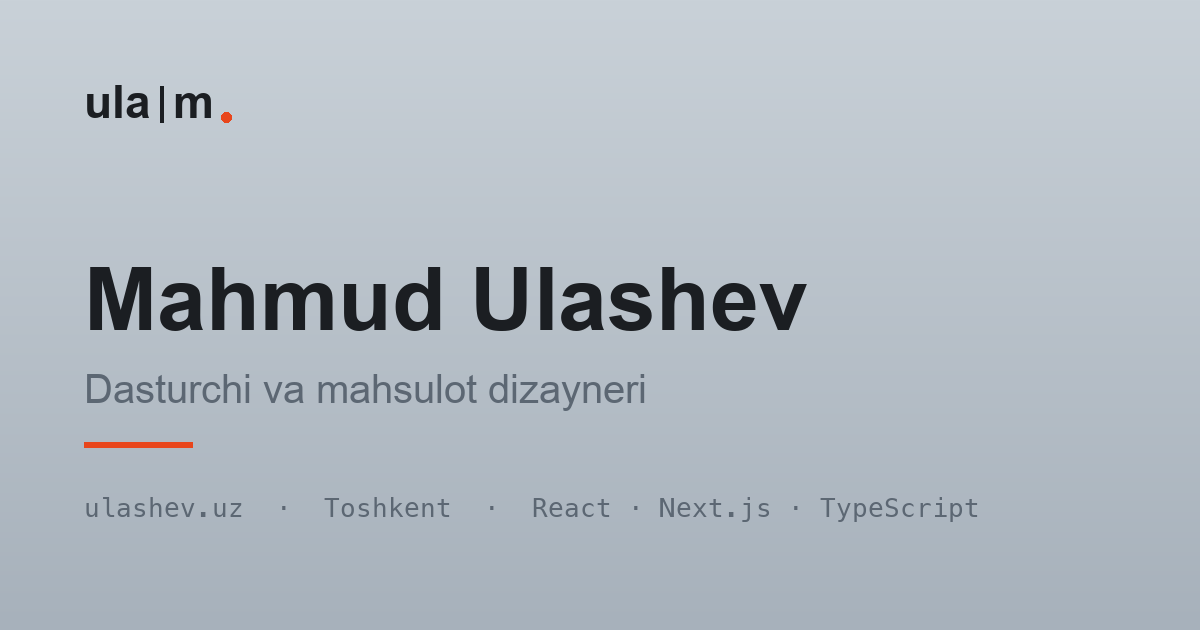
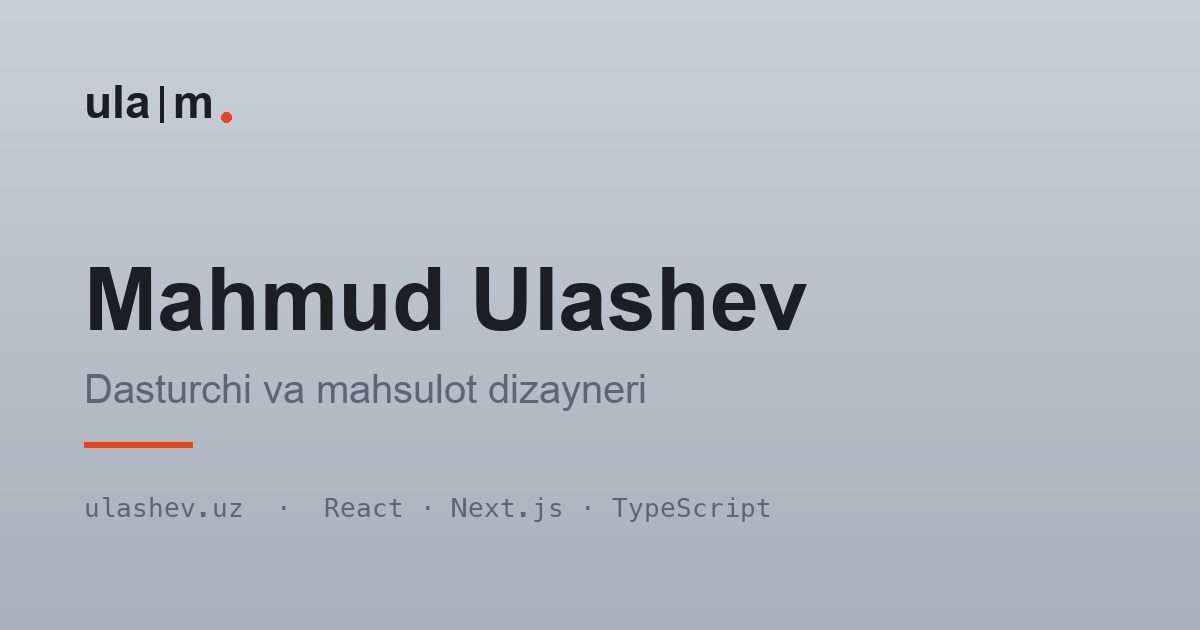
refactor: refine portfolio content, metadata, and instructional UI labels for better clarity

Changed region(s): [[0.2467, 0.7841, 0.6475, 0.8444], [0.6783, 0.7841, 0.8017, 0.8444]]

diff --git a/index.html b/index.html
@@ -3,12 +3,12 @@
 <head>
 <meta charset="utf-8" />
 <meta name="viewport" content="width=device-width, initial-scale=1, maximum-scale=1, viewport-fit=cover" />
-<title>Mahmud Ulashev — Dasturchi va mahsulot dizayneri | Toshkent</title>
-<meta name="description" content="Mahmud Ulashev — Toshkentdagi dasturchi. Dizayn, frontend, backend va serverni birlashtirib ishlaydigan saytlar va ilovalar yarataman." />
+<title>Mahmud Ulashev — Dasturchi va mahsulot dizayneri</title>
+<meta name="description" content="Mahmud Ulashev dizayn, kod va serverni birlashtirib ishlaydigan raqamli mahsulotlar yaratadi. 4 yil tajriba." />
 <link rel="canonical" href="https://ulashev.uz/" />
 <meta name="robots" content="index, follow, max-image-preview:large, max-snippet:-1" />
 <meta name="author" content="Mahmud Ulashev" />
-<meta name="keywords" content="Mahmud Ulashev, dasturchi, veb dasturchi, mahsulot dizayneri, frontend, React, Next.js, Toshkent, O'zbekiston, sayt yaratish" />
+<meta name="keywords" content="Mahmud Ulashev, dasturchi, veb dasturchi, mahsulot dizayneri, frontend, React, Next.js, O'zbekiston, sayt yaratish" />
 <meta name="theme-color" content="#15171a" />
 <link rel="alternate" hreflang="uz" href="https://ulashev.uz/" />
 <link rel="alternate" hreflang="x-default" href="https://ulashev.uz/" />
@@ -47,7 +47,6 @@
       "email": "mailto:maxmud_ulashev@ilma.uz",
       "telephone": "+998770343444",
       "knowsLanguage": ["uz", "ru", "en"],
-      "address": { "@type": "PostalAddress", "addressLocality": "Toshkent", "addressCountry": "UZ" },
       "sameAs": [
         "https://github.com/mahmud-ulashev",
         "https://t.me/mahmud_ulashev"
@@ -80,16 +79,16 @@
 <link rel="preconnect" href="https://rfvaiiqbspsivbastyrj.supabase.co" crossorigin>
 <link href="https://fonts.googleapis.com/css2?family=League+Spartan:wght@700&text=ulam.&display=swap" rel="stylesheet">
 <link href="https://fonts.googleapis.com/css2?family=Libre+Baskerville:wght@400&display=swap" rel="stylesheet">
-<link rel="stylesheet" href="styles.css?v=1787387020" />
+<link rel="stylesheet" href="styles.css?v=1787387769" />
 </head>
 <body>
 
 <!-- Qidiruv tizimlari va skrin-riderlar uchun. Ayni matn qurilma ekranida ham bor. -->
 <div class="sr-only">
-  <h1>Mahmud Ulashev — dasturchi va mahsulot dizayneri</h1>
-  <p>Toshkentda ishlayman. 2022-yildan beri kod yozaman. Dizayn, interfeys, server va ular
-     orasidagi ko'rinmas ishni bitta odam sifatida olib boraman. G'oya sizdan — ishlaydigan
-     mahsulot mendan.</p>
+  <h1>Mahmud Ulashev — raqamli dasturchi</h1>
+  <p>Fikr tizimga aylanadi. Dizayn, interfeys, server va ular orasidagi ko'rinmas ish —
+     siz bitta odam bilan gaplashasiz, butun natijaga bitta odam javob beradi.
+     G'oya sizdan — ishlaydigan mahsulot mendan. 2022-yildan beri kod yozaman.</p>
 
   <h2>Ishlar</h2>
 
@@ -119,16 +118,16 @@
 
   <h2>Xizmatlar</h2>
   <ul>
-    <li>Yangi sayt yoki ilova — noldan dizayn, sayt, admin panel va to'lov (6–10 hafta).</li>
-    <li>Ishni avtomatlashtirish — buyurtma, navbat va hisobot tizimga o'tadi (2–6 hafta).</li>
-    <li>Bor loyihani tuzatish — kod auditi, poydevorni tuzatish va yakunlash.</li>
+    <li><strong>Yangi sayt yoki ilova.</strong> Noldan boshlaymiz: dizayn, sayt, admin panel, to'lov va ishlashni davom ettiradigan ichki qism. 6–10 hafta.</li>
+    <li><strong>Ishni avtomatlashtirish.</strong> Buyurtma, navbat va hisobot daftar hamda Excel'dan chiqib, o'zi ishlaydigan tizimga o'tadi. 2–6 hafta.</li>
+    <li><strong>Bor loyihani tuzatish.</strong> Oldingi dasturchi tashlab ketgan bo'lsa, kodni ko'rib chiqaman, poydevorini tuzataman va ishni oxirigacha olib boraman.</li>
   </ul>
 
   <h2>Qanday ishlaymiz</h2>
   <ol>
-    <li>Bir gaplashamiz — bepul, yarim soatda narx va muddat aniq bo'ladi.</li>
-    <li>Birinchi ishlaydigan versiya — 2 hafta ichida eng kerakli qismni ko'rasiz.</li>
-    <li>Topshiraman va o'rgataman — kod sizniki, bir oy bepul qo'llab-quvvatlash.</li>
+    <li><strong>Bir gaplashamiz.</strong> Nima kerakligini aytasiz, men savol beraman. Yarim soatdan keyin narx va muddat aniq bo'ladi. Bepul.</li>
+    <li><strong>Birinchi ishlaydigan versiya.</strong> Butun loyihani kutmaysiz. Eng kerakli qismni erta ko'rasiz, o'zgartirish aytasiz va yo'nalish aniq bo'ladi.</li>
+    <li><strong>Topshiraman, o'rgataman.</strong> Kod sizniki. Xodimlaringizga ishlatishni ko'rsataman va bir oy bepul qo'llab turaman.</li>
   </ol>
 
   <h2>Aloqa</h2>
@@ -191,7 +190,7 @@
               </div>
               <nav class="tabs" id="tabs"></nav>
               <div class="listzone" id="listzone">
-                <div class="hint">ochish uchun qatorni bosing</div>
+                <div class="hint">ochish uchun bosing</div>
                 <div class="list" id="list"></div>
               </div>
               <div class="prompt">
@@ -258,6 +257,6 @@
   </div>
 </div>
 
-<script src="app.js?v=1787387020" defer></script>
+<script src="app.js?v=1787387769" defer></script>
 </body>
 </html>

diff --git a/app.js b/app.js
@@ -91,7 +91,7 @@ const PAGES = {
     path: '/men', tag: '',
     html: `
       <div class="d-title">Mahmud Ulashev</div>
-      <div class="d-meta">DASTURCHI · 4 YIL · TOSHKENT</div>
+      <div class="d-meta">DASTURCHI · 4 YIL</div>
       <div class="d-para">Dizayn, interfeys, server va ular orasidagi koʻrinmas ish. Siz bitta odam bilan gaplashasiz — butun natijaga bitta odam javob beradi.</div>
       <div class="d-para">Gʻoya sizdan — ishlaydigan mahsulot mendan.</div>
       <div class="d-sub">RAQAMLARDA</div>
@@ -141,8 +141,8 @@ const CHANGELOG = [
 const LEGENDS = {
   off:    [['P', 'YOQISH'], ['M', 'TOVUSH']],
   menu:   [['↑ ↓', 'TANLASH'], ['← →', 'BOʻLIMLAR'], ['↵', 'OCHISH'], ['⌥ ← ↑ → ↓', 'KANAL'], ['P', 'OʻCHIRISH'], ['M', 'TOVUSH']],
-  detail: [['← →', 'OLDINGI / KEYINGI'], ['↑ ↓', 'AYLANTIRISH'], ['⌥ ← ↑ → ↓', 'KANAL'], ['ESC', 'ORQAGA'], ['P', 'OʻCHIRISH'], ['M', 'TOVUSH']],
-  page:   [['↑ ↓', 'AYLANTIRISH'], ['⌥ ← ↑ → ↓', 'KANAL'], ['ESC', 'ORQAGA'], ['P', 'OʻCHIRISH'], ['M', 'TOVUSH']]
+  detail: [['← →', 'OLDINGI / KEYINGI'], ['↑ ↓', 'SURISH'], ['⌥ ← ↑ → ↓', 'KANAL'], ['ESC', 'ORQAGA'], ['P', 'OʻCHIRISH'], ['M', 'TOVUSH']],
+  page:   [['↑ ↓', 'SURISH'], ['⌥ ← ↑ → ↓', 'KANAL'], ['ESC', 'ORQAGA'], ['P', 'OʻCHIRISH'], ['M', 'TOVUSH']]
 };
 
 /* ---------- state & dom ------------------------------------- */
@@ -217,7 +217,7 @@ function renderMenu() {
   const d = DATA[S.tab];
   el.menuPath.textContent = '/' + d.label.replace(' ', '-');
   el.menuCount.textContent = `${d.items.length} ta`;
-  el.cmd.placeholder = `1–${d.items.length} raqamini yozing`;
+  el.cmd.placeholder = `raqam yozing: 1–${d.items.length}`;
   document.querySelectorAll('.tab').forEach(b =>
     b.classList.toggle('is-on', b.dataset.tab === S.tab));
   el.list.innerHTML = d.items.map((it, i) => `
